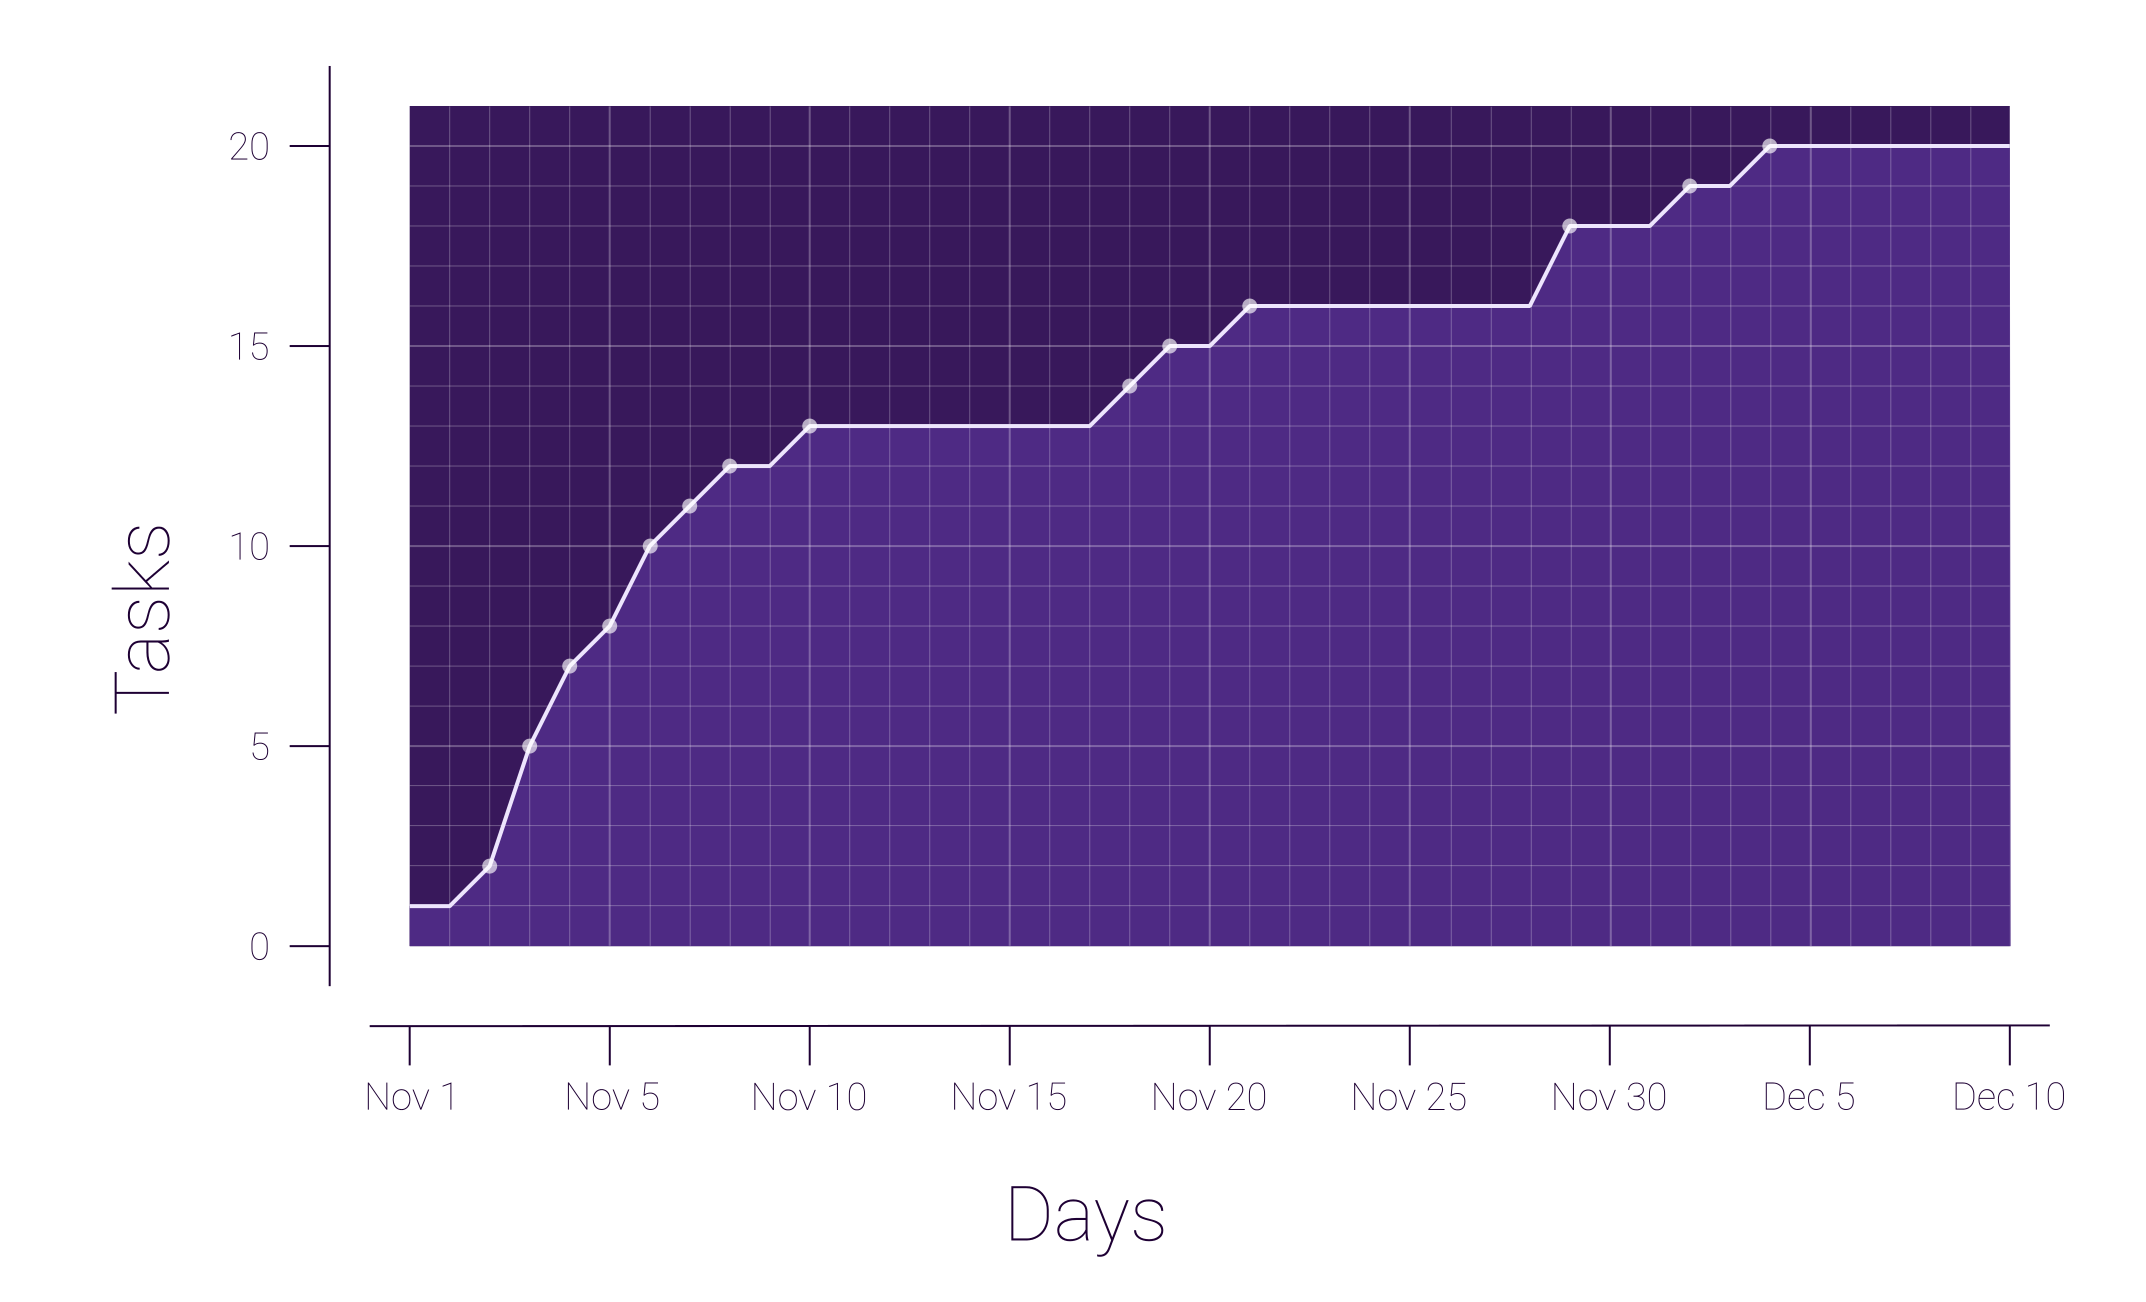
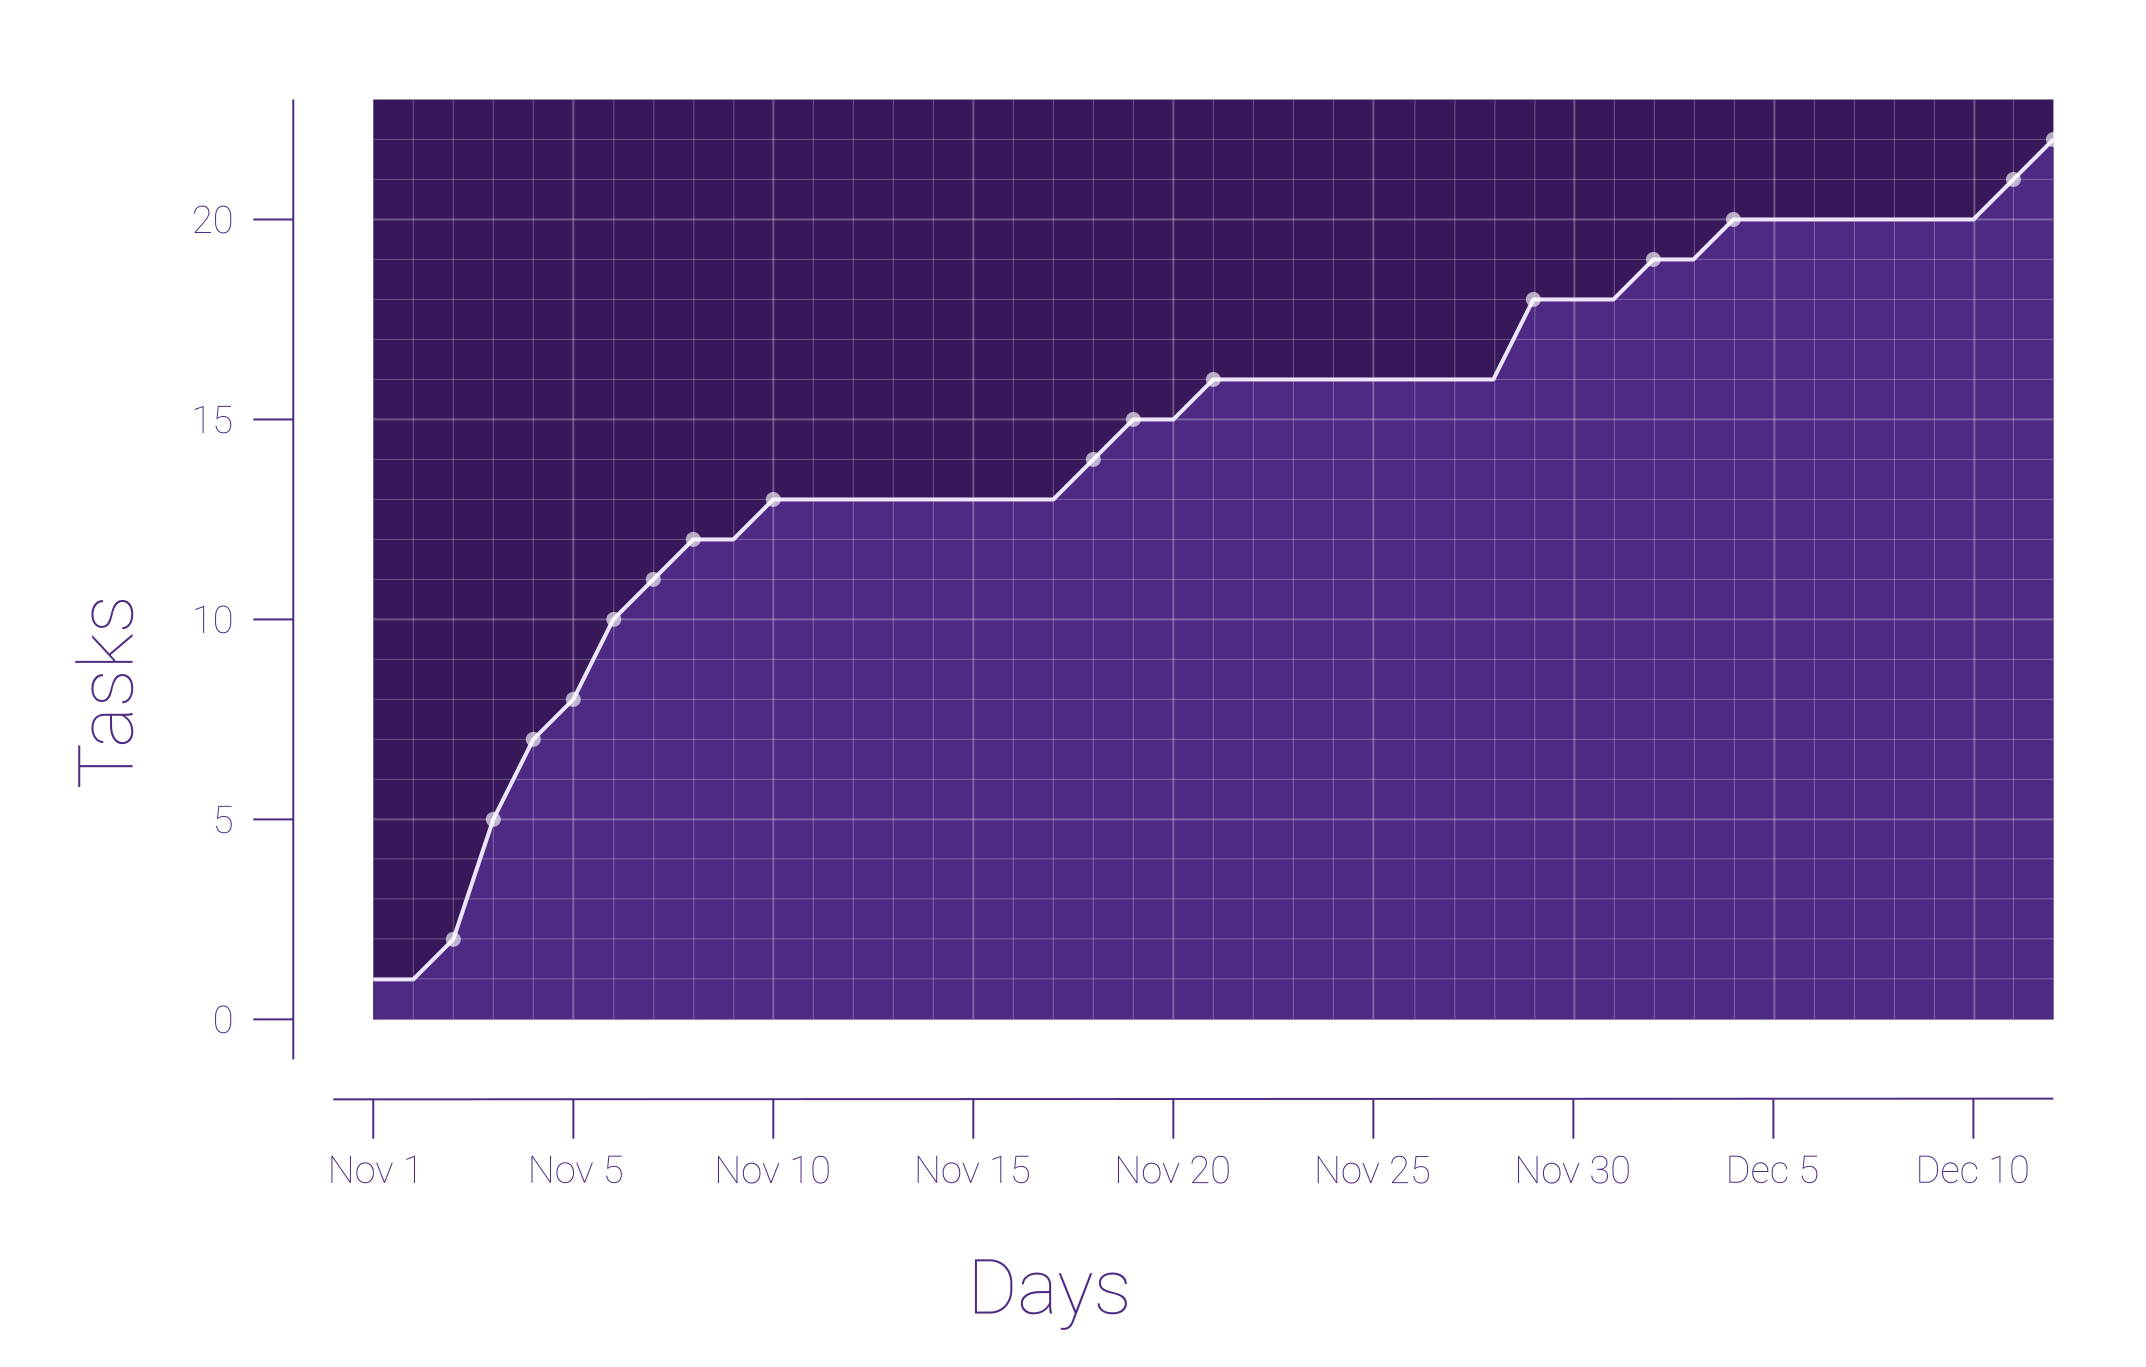
Edit some TextSection and edit task-graph1.png

diff --git a/data/TextSection/task-statistics.md b/data/TextSection/task-statistics.md
@@ -6,7 +6,7 @@ order: 8
 
 Google Code-In was opened at 26th October. I claimed my first task a week late, at 1st November.
 
-Here's a graph showing the total of tasks I've finished from 1st November to 10th December:
+Here's a graph showing the total of tasks I've finished from 1st November to 12th December (GCI's deadline):
 
 <div style="width: 60%; box-shadow: 0 4px 8px 0 rgba(0, 0, 0, 0.2), 0 6px 20px 0 rgba(0, 0, 0, 0.19); text-align: center; display: inline-block">
 <img src="../assets/png/task-graph1.png" style="max-width:100%"></img>
@@ -15,24 +15,51 @@ A graph showing the number of tasks I've finished in GCI
 </div>
 </div>
 
-I've solved a total of 20 tasks. (not counting the blog task yet)
+I've solved a total of 22 tasks In GCI 2018.
 
-As you can see, I have finished 13 tasks from 1st November to 10th November.
+As you can see, I have finished 13 tasks from 1st November to 10th November. <br>
+It was when <a href="https://github.com/jayvdb/">jayvdb</a> review tasks really fast.
 
 But in 11th November to 17th November, I didn't solve any tasks. <br>
-That was when I didn't know which task I should solve. I claimed around 3 tasks and abandoned them in the end.
+That was when I didn't know which task I should solve, I claimed around 3 tasks and abandoned them in the end.
 
 Then, at 18th November, I decided to claim <a href="/task-10">a design task</a> to motivate myself that I can still solve tasks. <br>
 I finished two more design tasks at Nov 19 - Nov 21.
 
 After the design tasks, I claimed <a href="/task-17">a coAST task</a>. That's what took me pretty long. <br>
 The task's difficulty is low, but there's *always* some little mistakes in my changes. <br>
-In the end, the task was finally approved after 8 days. I felt like, I did it, finally.
+In the end, the task was finally approved after **8 days**. I felt like, I did it.
 
 In 29th November to 4th December, I didn't have any problems while solving tasks. <br>
-But at 5th December, I claimed a bear task, and I was stuck once again.
+But at 5th December, I claimed a bear task and I was stuck once again.
 
 I asked <a href="https://github.com/ayan-b/">ayan-b</a> for help and I explained the problems I faced. He helped me a lot.
 
 But after a few days, I realized that the problem was the bear itself. I wish I realized that sooner.<br>
-The task expired and I claimed the blog task.
+The task expired and I claimed the blog task right after that.
+
+<div style="font-size: 30px">Blog Task</div>
+
+The blog task was really fun. <br>
+I felt like I can do better, but there are not much time.<br>
+But I'd say, I'm proud of it.
+
+And I'd like thank <a href="https://github.com/ayan-b/">ayan-b</a> once again for helping me with this task.<br>
+I finished the blog task a few hours before the claiming task deadline arrived.
+
+<div style="font-size: 30px">Final Task</div>
+
+Then I claimed the <a href="/task-22">Roll your own task</a> task.<br>
+It took me a while to choose the final task.
+But I finally found [an issue with a medium difficulty](https://github.com/coala/coala-bears/issues/1922).
+
+The issue is to make the StyleLintBear configurable.<br>
+I was like, "okay, that must be easy"
+
+Then I saw that the StyleLintBear has **94 arguments** (if I didn't forget).<br>
+So I thought, "This task isn't going to be *that* difficult, but it will take some time"
+
+At first, I was manually doing it.<br>
+But then I got an idea, "Why don't I save my time by making a small python script that generates the docstrings and the tests?"
+
+In the end, I did it. I finished the task in around 5 hours, which is about 7 hours before the deadline.

diff --git a/data/TextSection/what-i-do-solve-tasks.md b/data/TextSection/what-i-do-solve-tasks.md
@@ -6,4 +6,7 @@ order: 4
 
 I usually read the documentation(s) that involves my current task and see others' submissions if there are any.
 
-When I was waiting for a review on my current task, I usually do a research on a task I haven't claimed that I planned to do next, so I won't waste my time waiting for a mentor.
+When I was waiting for a review on my current task, I usually do a research on a task I haven't claimed that I planned<br>
+to do next, so I won't waste my time waiting for a mentor.
+
+It saves my time.

diff --git a/data/TextSection/why-coala.md b/data/TextSection/why-coala.md
@@ -12,4 +12,5 @@ There were a lot of organizations that uses python, but coala seems to be the ea
 I scrolled down through their website. <br>
 I thought, "An organization that lint codes in different languages? Interesting."
 
-At first, I wasn't so sure about my decision, but I have no regrets choosing coala.
+At first, I wasn't so sure about my decision, but I have no regrets choosing coala.<br>
+It's an awesome organization, especially because it's all made out of pure python.

diff --git a/data/TextSection/difficulty-i-faced.md b/data/TextSection/difficulty-i-faced.md
@@ -5,4 +5,6 @@ order: 5
 <div style="font-size: 35px">Difficulty I faced</div>
 
 When I faced something difficult, I would searched it up on Google, read the documentations, and try everything I can.<br>
-The last step is, ask a mentor. If you're stuck in a dead end, it's the best to ask the mentors and they never respond late.
+
+The last step is, ask a mentor. If you're in a dead end, it's the best to ask the mentors.<br>
+They never respond late.
